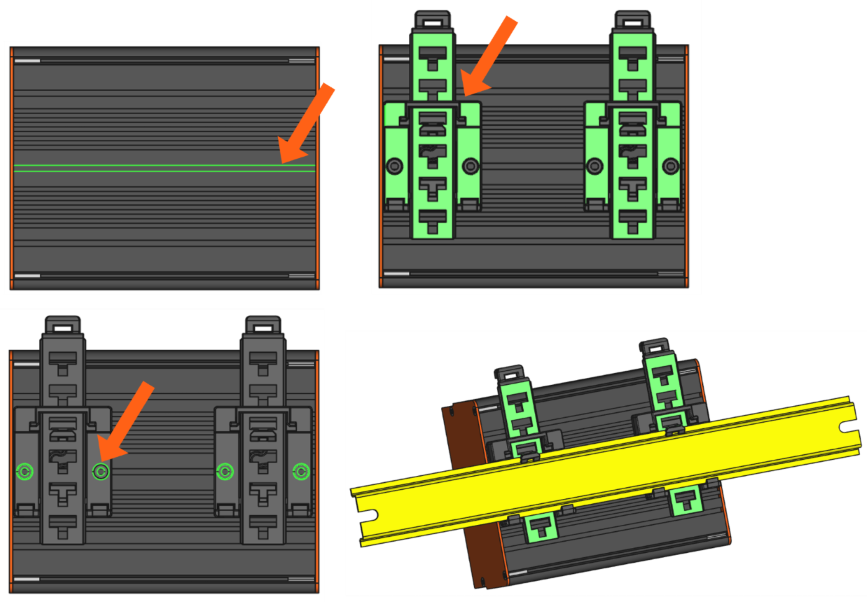
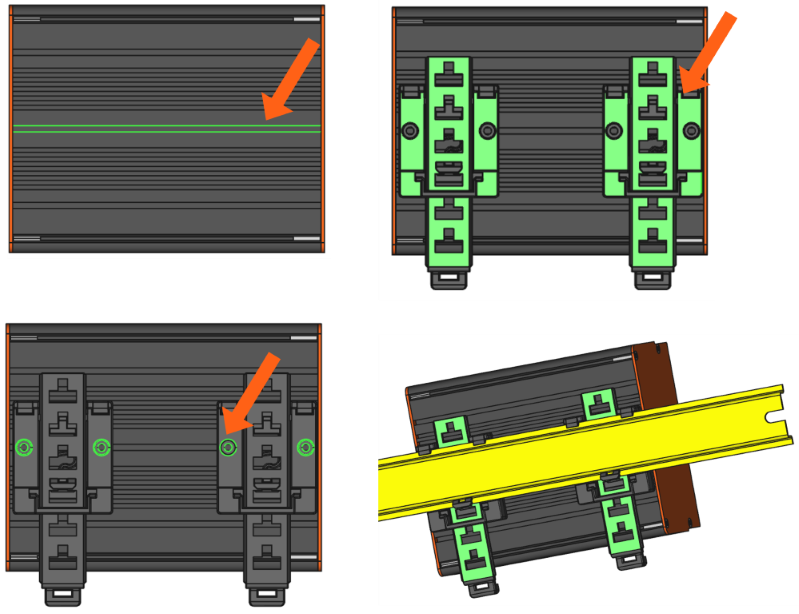
review rework and update Din Rail

diff --git a/docs/user-docs/_edge-solutions/moducop/mounting-installation/install-guide.md b/docs/user-docs/_edge-solutions/moducop/mounting-installation/install-guide.md
@@ -28,7 +28,7 @@ For installation in railway vehicles, equipment location is defined according to
 {: .notice--warning}
 
 > Please use Ci4Rail's accessories for mounting 
-{: .notice--warning}
+{: .notice--info}
 
 
 # Installation Guidance
@@ -53,7 +53,7 @@ For guidance on mounting orientation, angles, keep free areas, please refer to [
 
 ### Assembly of ModuCop to Wall
 
-* Select clean and level ground
+* Select clean and level ground.
 * Use 2x M3x25 screws per mounting bracket. 
 * Start mounting top bracket, then bottom bracket. 
 
@@ -82,7 +82,7 @@ For guidance on mounting orientation, angles, keep free areas, please refer to [
 
 ### Removal of ModuCop from 35 mm DIN Rail
 
-* Lift DIN rail holder flanges simultaneously, turn ModuCop slightly forward from the top and remove it downward.  
+* Pull down flexible flanges of DIN rail holders (e.g. with screwdriver) simultaneously, turn ModuCop slightly upwards from bottom side and remove it upwards.  
 
 ## Installation to 19'' Sub-Rack
 Make sure, you are using the correct accessory for rack mounting depending on your ModuCop configuration. For example, a 6 slot ModuCop must be mounted with 6 slot rack mount brackets.  
@@ -105,7 +105,7 @@ For details please refer to [Installation Requirements]({{ '/edge-solutions/modu
 ### Assembly of ModuCop into 19'' Sub-Rack
 
 * Check 19'' sub-rack for fitting threaded bars. 
-* Use M3x25 screws per mounting bracket
+* Use M3x10 screws per mounting bracket
 * Start mounting top bracket, then bottom bracket. 
 
     ![ModuCop Edge Computer]({{ '/user-docs/images/edge-solutions/moducop/Mounting/rack-install3.png' | relative_url }})

diff --git a/docs/user-docs/_edge-solutions/moducop/mounting-installation/install-requirement.md b/docs/user-docs/_edge-solutions/moducop/mounting-installation/install-requirement.md
@@ -34,9 +34,12 @@ ModuCop is a protection class I device (protective earth).
 > It is mandatory to connect protective earth first and disconnect last for any installation action! 
 {: .notice--danger}
 
-Use proper components and cable equipment to establish a safe and stable earth connection. Pay particular attention to the choice of the right
-- Current carrying capacity
-- Cable cross section
+Use proper components and cable equipment to establish a safe and stable earth connection. 
+
+Protective earth bolt is located on the front of installed power supply unit. 
+
+![ModuCop Edge Computer]({{ '/user-docs/images/edge-solutions/moducop/mounting/prot_earth.png' | relative_url }})
+
 
 
 ## Mechanical Installation Requirements
@@ -69,7 +72,7 @@ Please avoid mounting which prevents heat dissipation!
 
 
 ### Keep Free Areas
-Since ModuCop is completely passively cooled, the installation must allow for natural air convection through clearances with specific distances to adjacent equipment on the top and bottom of the ModuCop.
+Since ModuCop is completely passively cooled, the installation must allow for natural air convection through clearances with specific distances to adjacent equipment.
 
 The following figures show clearence areas depending on choosen mounting:
 

diff --git a/docs/user-docs/_edge-solutions/moducop/mounting-installation/mounting-options.md b/docs/user-docs/_edge-solutions/moducop/mounting-installation/mounting-options.md
@@ -33,9 +33,9 @@ ModuCop is designed to be installed on TH35 DIN rail (35 mm) by using the approp
 ![ModuCop Edge Computer]({{ '/user-docs/images/edge-solutions/moducop/mounting/MEC01_4slot_DIN.png' | relative_url }})
 
 Required Accessories:
-* S104-ACS02-:    35mm DIN-Rail Mounting Kit (contains 2x DIN-Rail holder)
+* S104-ACS02-:    35mm DIN rail mounting kit (contains 2x DIN rail holders)
 
-> DIN-Rail is not part of accessory. 
+> DIN rail is not part of accessory. 
 {: .notice--info}
 
 For details please refer to [Installation Guide]({{ '/edge-solutions/moducop/mounting-installation/install-guide' | relative_url }}).

diff --git a/docs/user-docs/_edge-solutions/moducop/introduction/specification.md b/docs/user-docs/_edge-solutions/moducop/introduction/specification.md
@@ -8,7 +8,7 @@ custom_next: /edge-solutions/moducop/introduction/mech-outline/
 
 This page provides information about the technical specification of ModuCop Edge Computer.
 
-![ModuCop Edge Computer]({{ '/user-docs/images/edge-solutions/moducop/photo_a.png' | relative_url }})
+![ModuCop Edge Computer]({{ '/user-docs/images/edge-solutions/moducop/42HP15_trans1.jpg' | relative_url }})
 
 
 ## Features
